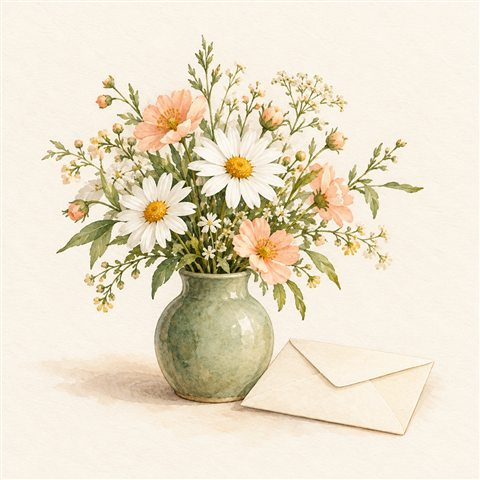
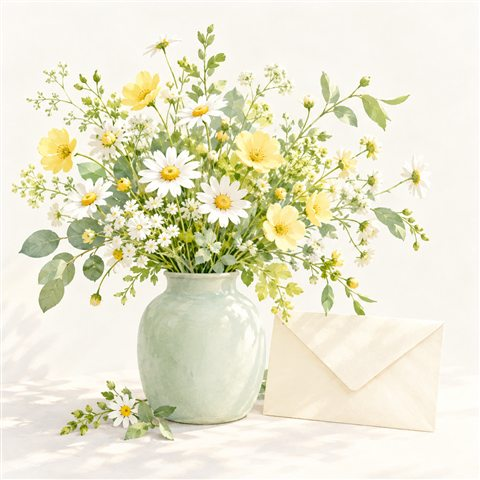
Refresh garden imagery with calming mint and lemon tones

diff --git a/static/style.css b/static/style.css
@@ -7,6 +7,7 @@
   --green: #365c48;
   --green-hover: #294a38;
   --sage: #edf3ec;
+  --lemon-wash: #f5f7e9;
   --line: #e1e8df;
   --field-line: #819285;
   --error: #9c3d32;
@@ -127,7 +128,7 @@ footer a:hover { color: var(--green); text-decoration: underline; }
 .letter-art img { display: block; width: 100%; height: 150px; object-fit: cover; object-position: center 48%; }
 .letter-art span { position: absolute; bottom: 12px; left: 20px; padding: 4px 8px; border-radius: 6px; background: var(--surface); color: var(--green); font-size: 10px; letter-spacing: 2px; }
 .policy-note { padding: 12px; margin: 16px 0 0; border-radius: 10px; background: var(--sage); color: var(--green); font-size: 12px; text-align: center; line-height: 1.8; }
-.garden-note { display: flex; align-items: center; gap: 18px; padding: 12px 20px; margin-bottom: 20px; border-radius: 16px; background: #f1efe7; }
+.garden-note { display: flex; align-items: center; gap: 18px; padding: 12px 20px; margin-bottom: 20px; border-radius: 16px; background: var(--lemon-wash); }
 .garden-note img { flex-shrink: 0; width: 80px; height: 80px; object-fit: cover; border-radius: 50%; }
 .garden-note p { margin: 0; color: var(--muted); font-size: 13px; line-height: 1.9; }
 .garden-note strong { color: var(--green); font-weight: 600; }

diff --git a/ASSETS.md b/ASSETS.md
@@ -1,17 +1,17 @@
-# 정원 일러스트
+# 편안하고 산뜻한 정원 일러스트
 
 이미지는 내장 image_gen 도구로 새로 생성하고 육안 확인 후 JPEG로 압축했습니다. 이미지 서버·외부 폰트·유료 API를 앱 실행 중 호출하지 않습니다. PNG 원본은 생성 도구의 기본 보관 위치에 유지하고, 배포에는 아래 JPEG만 사용합니다.
 
 | 파일 | 용도 | 해상도 | 크기 |
 | --- | --- | --- | --- |
-| `static/images/garden.jpg` | 상단 정원 일러스트 | 1152×768 | 266,760 bytes |
-| `static/images/letter.jpg` | 작성 카드의 편지 이미지 | 480×480 | 41,031 bytes |
-| `static/images/flowers.jpg` | 목록 인사 배너와 빈 목록 | 480×480 | 42,432 bytes |
+| `static/images/garden.jpg` | 민트 우편함과 레몬나무 정원 | 1152×768 | 225,949 bytes |
+| `static/images/letter.jpg` | 연두 잎과 밝은 편지 이미지 | 480×480 | 26,236 bytes |
+| `static/images/flowers.jpg` | 흰색·레몬색 들꽃과 민트 화병 | 480×480 | 44,305 bytes |
 
-합계 350,223 bytes(약 342 KiB). 중요한 상단 이미지는 우선 로딩하고, 하단 이미지는 지연 로딩합니다. 꽃 이미지를 여러 위치에서 재사용하므로 브라우저 캐시를 이용할 수 있습니다. 기존 색상·서체·16px 본문·16px 카드 모서리를 유지했습니다. 장식 이미지에는 빈 alt를, 정원 이미지에는 대체 설명을 제공합니다.
+합계 296,490 bytes(약 290 KiB). 빈티지한 질감과 갈색을 줄이고 민트·연두·레몬색, 아침 햇빛과 넉넉한 여백으로 편안하고 상큼한 분위기를 만들었습니다. 중요한 상단 이미지는 우선 로딩하고, 하단 이미지는 지연 로딩합니다. 꽃 이미지를 여러 위치에서 재사용하므로 브라우저 캐시를 이용할 수 있습니다. 기존 색상·서체·16px 본문·16px 카드 모서리를 유지했습니다. 장식 이미지에는 빈 alt를, 정원 이미지에는 대체 설명을 제공합니다.
 
 ## 생성 프롬프트
 
-- Garden: Landscape watercolor/gouache editorial illustration of a peaceful botanical garden, sage green mailbox, cream envelopes, wooden bench, white daisies, peach flowers, olive trees, sunlight and birds. Ivory open sky, detailed lower garden, soft paper grain. No people, no lettering, no logo, no watermark.
-- Letter: Square watercolor/gouache still life on ivory paper: cream envelope, pressed daisy, green fountain pen, blank folded letter, leafy branch and unlettered postage stamps. Sage, white, peach, generous margins. No text, no logos, no watermark.
-- Flowers: Square watercolor/gouache bouquet of white daisies and peach wildflowers in a sage ceramic vase beside a cream envelope. Ivory background, soft sunlight, paper texture, centered with margins. No people, no text, no logos, no watermark.
+- Garden: Landscape 3:2 comfortable yet fresh Scandinavian watercolor/gouache garden. Mint-green mailbox and cream envelope, simple bench, delicate white daisies and pale lemon-yellow flowers, lime-green lemon tree, distant hills and a tiny bird. Airy ivory sky, gentle morning light, open upper third. No antique paper, sepia, brown, heavy grain, text, people, logos or watermark.
+- Letter: Square fresh Scandinavian watercolor/gouache still life. Ivory envelope, blank card, mint pen, fresh lime-green twig, white daisy and pale lemon blossom. Pale warm white background, smooth paper, soft morning shadows, generous margins. No writing, logos, watermark, vintage parchment, brown or heavy grain.
+- Flowers: Square relaxed fresh bouquet of white daisies, lemon-yellow flowers and tender green leaves in a mint ceramic vase beside a cream envelope. Airy Scandinavian watercolor/gouache, pale ivory background, morning light, soft shadows, plenty of margins. No antique paper, sepia, brown, people, lettering, logos or watermark.

diff --git a/VERIFICATION.md b/VERIFICATION.md
@@ -77,3 +77,9 @@ PowerShell 실행 정책이 `.ps1` 실행을 차단했으므로 정책을 바꾸
 - `python -m pytest Day8/guestbook -q`: **70 passed**, 기존 TestClient 경고 1개.
 - 이미지 GET과 비공개 설정 파일의 HTTP 접근 불가를 확인했습니다. 백엔드 운영 의존성과 테이블은 추가하지 않았습니다.
 - ZIP 패키징을 하위 이미지 폴더와 금지어 모듈·설정까지 포함하도록 수정했습니다.
+
+## 산뜻한 이미지로 조정
+
+- 정원·편지·꽃을 민트·연두·레몬색의 밝은 이미지로 교체하고 육안 확인했습니다. 새 이미지 합계는 296,490 bytes입니다.
+- 이미지 HTTP 응답·용량 제한 테스트 1개 통과. 기존 TestClient 경고 1개는 동일합니다.
+- 금지어와 등록·삭제 코드는 수정하지 않았습니다. 업로드 ZIP을 새 이미지로 갱신했습니다.

diff --git a/README.md b/README.md
@@ -88,7 +88,7 @@ py -3.13 -m venv .venv
 
 ## 일러스트
 
-정원·편지·꽃 이미지 3개를 로컬 파일로 제공합니다. 합계 약 342 KiB로 압축했으며 하단 이미지는 지연 로딩합니다. 파일 경로와 생성 프롬프트는 [ASSETS.md](ASSETS.md)에 있습니다. 운영 의존성은 추가하지 않았습니다.
+정원·편지·꽃 이미지 3개를 로컬 파일로 제공합니다. 민트·연두·레몬색의 편안하고 산뜻한 분위기로 구성했습니다. 합계 약 290 KiB로 압축했으며 하단 이미지는 지연 로딩합니다. 파일 경로와 생성 프롬프트는 [ASSETS.md](ASSETS.md)에 있습니다. 운영 의존성은 추가하지 않았습니다.
 
 ## 무료 배포
 
